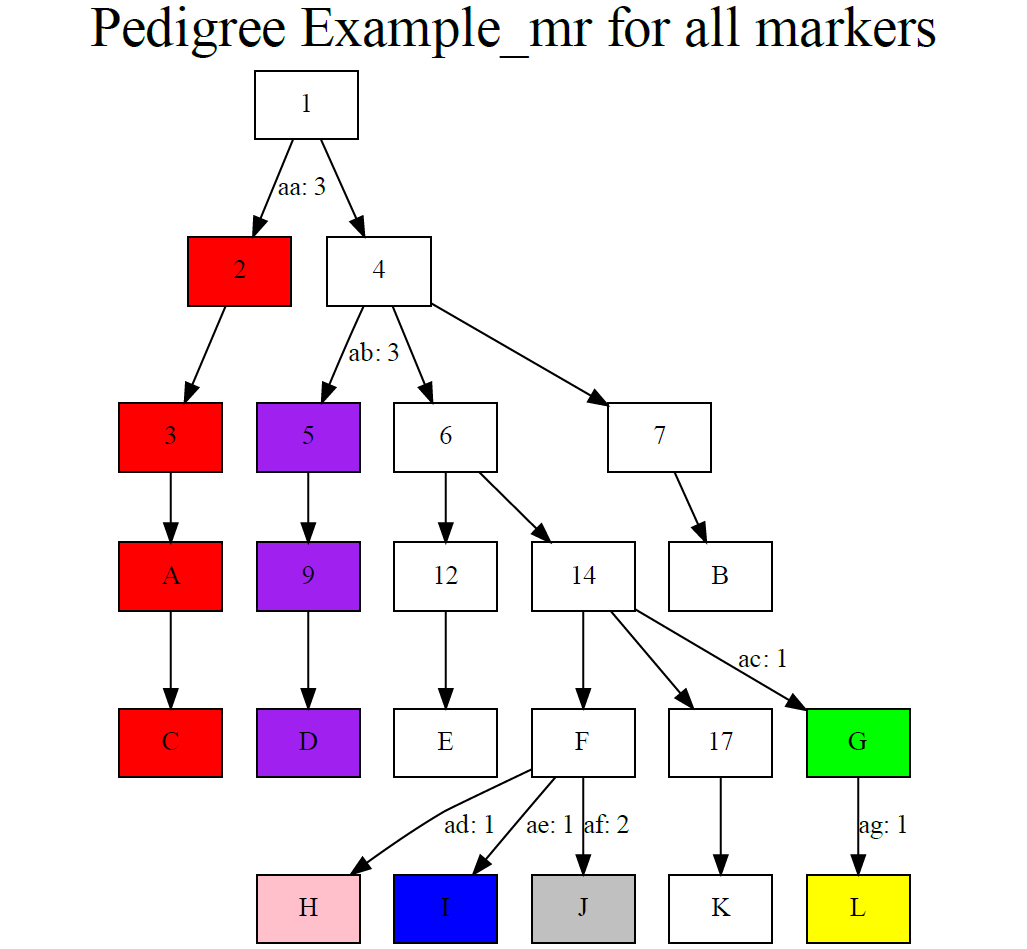
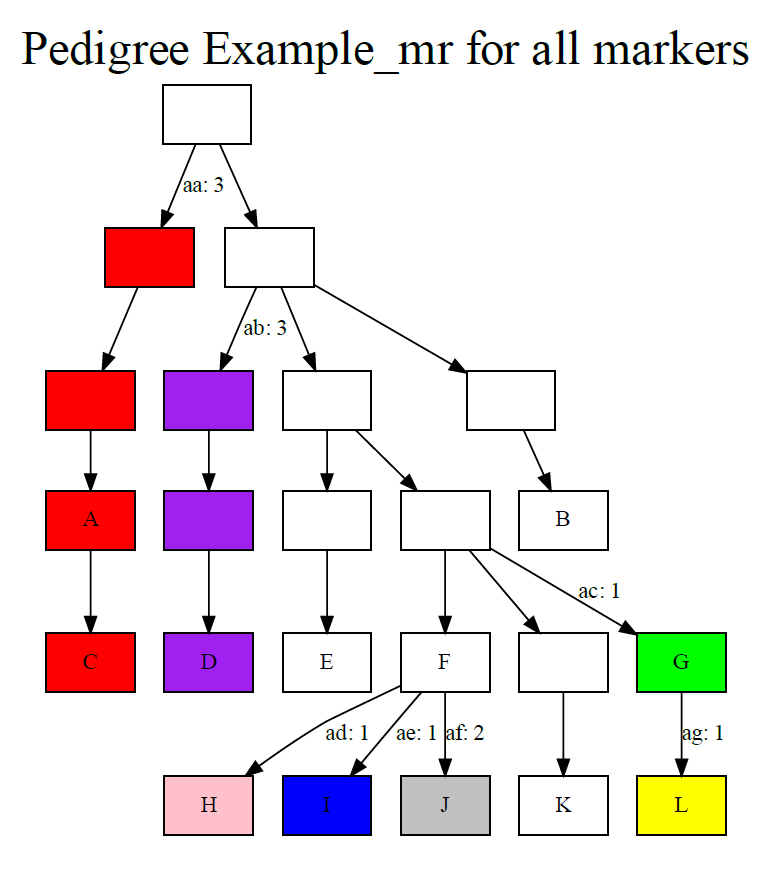
minor change removing the labels from pedigrees

Changed region(s): [[0.031, 0.0, 0.9625, 1.0], [0.4968, 0.372, 0.5589, 0.403], [0.4347, 0.341, 0.4968, 0.372]]

diff --git a/MalePedigreeToolbox/infer_pedigree_mutations.py b/MalePedigreeToolbox/infer_pedigree_mutations.py
@@ -637,7 +637,7 @@ def plot_pedigree(
             if parent_node.sample is not None:
                 dot.node(parent_node.id, parent_node.sample, shape='box', style='filled', fillcolor=color)
             else:
-                dot.node(parent_node.id, parent_node.id, shape='box')
+                dot.node(parent_node.id, "", shape='box')
             child_nodes = [node for node in pedigree_marker_graph.get_children(parent_node) if node.allele is not None]
             # add edges
             for child_node in child_nodes:
@@ -723,7 +723,7 @@ def plot_full_pedigree(
     if next_nodes[0].sample is not None:
         dot.node(next_nodes[0].id, next_nodes[0].sample, shape='box', style='filled', fillcolor="white")
     else:
-        dot.node(next_nodes[0].id, next_nodes[0].id, shape='box', style='filled', fillcolor="white")
+        dot.node(next_nodes[0].id, "", shape='box', style='filled', fillcolor="white")
 
     allele_color_mapping = {next_nodes[0].allele_id(): "white"}
     edge_change_dict = {}
@@ -760,7 +760,7 @@ def plot_full_pedigree(
                 if child_node.sample is not None:
                     dot.node(child_node.id, child_node.sample, shape='box', style='filled', fillcolor=color)
                 else:
-                    dot.node(child_node.id, child_node.id, shape='box', style='filled', fillcolor=color)
+                    dot.node(child_node.id, "", shape='box', style='filled', fillcolor=color)
 
             new_next_nodes.extend(child_nodes)
         next_nodes = new_next_nodes
